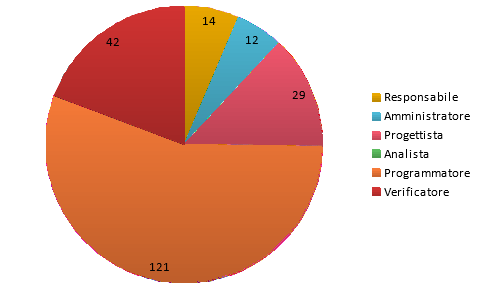
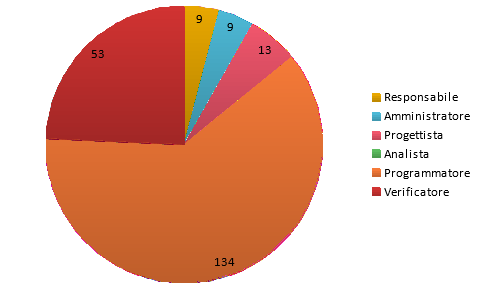
nuovo preventivo con grafici

diff --git a/RQ/Esterni/PianoDiProgetto/Preventivo.tex b/RQ/Esterni/PianoDiProgetto/Preventivo.tex
@@ -344,15 +344,15 @@
 			\textbf{Nominativo} & \textbf{Rp} & \textbf{Am} & \textbf{Pt}
 						& \textbf{An} & \textbf{Pm} & \textbf{Ve} & \textbf{Ore totali} \\
 			\midrule
-			Andrea Magnan  & 3 & 0 & 6 & 0 & 10 & 11 & 30 \\
-			Luca Bertolini  & 0 & 5 & 6 & 0 & 20 & 0 & 31 \\
-			Mattia Bottaro  & 0 & 7 & 5 & 0 & 19 & 0 & 31 \\
-			Mauro Carlin  & 7 & 0 & 4 & 0 & 17 & 3 & 31 \\
+			Andrea Magnan  & 2 & 0 & 2 & 0 & 13 & 13 & 30 \\
+			Luca Bertolini  & 0 & 5 & 3 & 0 & 23 & 0 & 31 \\
+			Mattia Bottaro  & 0 & 4 & 2 & 0 & 25 & 0 & 31 \\
+			Mauro Carlin  & 5 & 0 & 2 & 0 & 17 & 7 & 31 \\
 			Nicola Tintorri  & 0 & 0 & 0 & 0 & 16 & 17 & 33 \\
-			Pier Paolo Tricomi  & 0 & 0 & 4 & 0 & 20 & 7 & 31 \\
-			Simeone Pizzi & 4 & 0 & 4 & 0 & 19 & 4 & 31 \\
+			Pier Paolo Tricomi  & 0 & 0 & 2 & 0 & 20 & 9 & 31 \\
+			Simeone Pizzi & 2 & 0 & 2 & 0 & 20 & 7 & 31 \\
 			\midrule
-			\textbf{Ore Totali Ruolo} & 14 & 12 & 29 & 0 & 121 & 42 & 218 \\
+			\textbf{Ore Totali Ruolo} & 9 & 9 & 13 & 0 & 134 & 53 & 218 \\
 			\bottomrule
 
 		\end{tabularx}
@@ -377,14 +377,14 @@
 			\toprule
 			\textbf{Ruolo} & \textbf{Ore} & \textbf{Costo (\euro{})} \\
 			\midrule
-			Responsabile & 14    &  420,00 \\
-			Amministratore  & 12    &  240,00 \\
-			Progettista  & 29   &  638,00 \\
+			Responsabile & 9    &  2700,00 \\
+			Amministratore  & 9    &  180,00 \\
+			Progettista  & 13   &  286,00 \\
 			Analista & 0    &  0,00 \\
-			Programmatore  & 121    &  1.815,00 \\
-			Verificatore  & 42    &  630,00 \\
+			Programmatore  & 134    &  2.010,00 \\
+			Verificatore  & 53    &  795,00 \\
 			\midrule
-			\textbf{Totale}  & 218   &  3.743,00 \\
+			\textbf{Totale}  & 218   &  3.541,00 \\
 			\bottomrule
 		\end{tabular}
 		\caption{\PerC{} - Costo per ruolo}
@@ -419,13 +419,13 @@
 			\midrule
 			Andrea Magnan  & 0 & 0 & 0 & 0 & 6 & 7 & 13 \\
 			Luca Bertolini  & 0 & 0 & 0 & 0 & 8 & 4 & 12 \\
-			Mattia Bottaro  & 0 & 0 & 5 & 0 & 0 & 7 & 12 \\
-			Mauro Carlin  & 0 & 8 & 0 & 0 & 0 & 4 & 12 \\
+			Mattia Bottaro  & 0 & 0 & 2 & 0 & 0 & 10 & 12 \\
+			Mauro Carlin  & 0 & 2 & 0 & 0 & 0 & 10 & 12 \\
 			Nicola Tintorri  & 0 & 3 & 0 & 0 & 0 & 8 & 11 \\
-			Pier Paolo Tricomi  & 7 & 0 & 0 & 0 & 4 & 2 & 13 \\
+			Pier Paolo Tricomi  & 5 & 0 & 0 & 0 & 4 & 4 & 13 \\
 			Simeone Pizzi & 0 & 0 & 0 & 0 & 2 & 11 & 13 \\
 			\midrule
-			\textbf{Ore Totali Ruolo} & 7 & 11 & 5 & 0 & 20 & 43 & 86 \\
+			\textbf{Ore Totali Ruolo} & 5 & 5 & 2 & 0 & 20 & 54 & 86 \\
 			\bottomrule
 		\end{tabularx}
 		\caption{\PerV{} - Suddivisione delle ore di lavoro}
@@ -449,14 +449,14 @@
 			\toprule
 			\textbf{Ruolo} & \textbf{Ore} & \textbf{Costo (\euro{})} \\
 			\midrule
-			Responsabile & 7 & 210,00 \\
-			Amministratore  & 11 & 220,00 \\
-			Progettista  & 5 & 110,00 \\
+			Responsabile & 5 & 150,00 \\
+			Amministratore  & 5 & 100,00 \\
+			Progettista  & 2 & 44,00 \\
 			Analista & 0 & 0,00 \\
 			Programmatore  & 20 &  300,00 \\
-			Verificatore  & 43 &  645,00 \\
+			Verificatore  & 54 &  810,00 \\
 			\midrule
-			\textbf{Totale}  & 86   &  1.485,00 \\
+			\textbf{Totale}  & 86   &  1.404,00 \\
 			\bottomrule
 		\end{tabular}
 		\caption{\PerV{} - Costo per ruolo}
@@ -490,15 +490,15 @@
 			\textbf{Nominativo} & \textbf{Rp} & \textbf{Am} & \textbf{Pt}
 						& \textbf{An} & \textbf{Pm} & \textbf{Ve} & \textbf{Ore totali} \\
 			\midrule
-			Andrea Magnan  & 6  & 12 & 17 & 18 & 16  & 36 & 105 \\
-			Luca Bertolini  & 6 & 19 & 12 & 14 & 28 & 26 & 105 \\
-			Mattia Bottaro  & 7  & 7 & 19 & 22 & 19  & 31 & 105 \\
-			Mauro Carlin  & 7 & 21 & 14 & 19 & 17 & 27 & 105 \\
+			Andrea Magnan  & 5  & 12 & 13 & 18 & 19  & 38 & 105 \\
+			Luca Bertolini  & 6 & 19 & 9 & 14 & 31 & 26 & 105 \\
+			Mattia Bottaro  & 7  & 4 & 13 & 22 & 25  & 34 & 105 \\
+			Mauro Carlin  & 5 & 15 & 12 & 19 & 17 & 37 & 105 \\
 			Nicola Tintorri  & 6 & 11 & 13 & 22 & 16 & 37 & 105 \\
-			Pier Paolo Tricomi  & 7 & 10 & 19 & 17 & 24 & 28 & 105 \\
-			Simeone Pizzi & 4 & 12 & 20 & 15 & 21 & 33 & 105 \\
+			Pier Paolo Tricomi  & 5 & 10 & 17 & 17 & 24 & 32 & 105 \\
+			Simeone Pizzi & 2 & 12 & 18 & 15 & 22 & 36 & 105 \\
 			\midrule
-			\textbf{Ore Totali Ruolo} & 43    & 92   & 114   & 127   & 141 & 218   & 735 \\
+			\textbf{Ore Totali Ruolo} & 36    & 83   & 95   & 127   & 154 & 240   & 735 \\
 			\bottomrule
 		\end{tabularx}
 		\caption{Ore totali - Suddivisione delle ore di lavoro}
@@ -524,14 +524,14 @@
 			\toprule
 			\textbf{Ruolo} & \textbf{Ore} & \textbf{Costo (\euro{})} \\
 			\midrule
-			Responsabile & 43    &  1.290,00 \\
-			Amministratore  & 92   &  1.840,00 \\
-			Progettista  & 114   &  2.508,00 \\
+			Responsabile & 36    &  1.080,00 \\
+			Amministratore  & 83   &  1.660,00 \\
+			Progettista  & 95   &  2.090,00 \\
 			Analista & 127   &  3.175,00 \\
-			Programmatore  & 141   &  2.115,00 \\
-			Verificatore  & 218   &  3.270,00 \\
+			Programmatore  & 154   &  2.310,00 \\
+			Verificatore  & 240   &  3.600,00 \\
 			\midrule
-			\textbf{Totale}  & 735  &  14.198,00 \\
+			\textbf{Totale}  & 735  &  13.915,00 \\
 			\bottomrule
 
 		\end{tabular}
